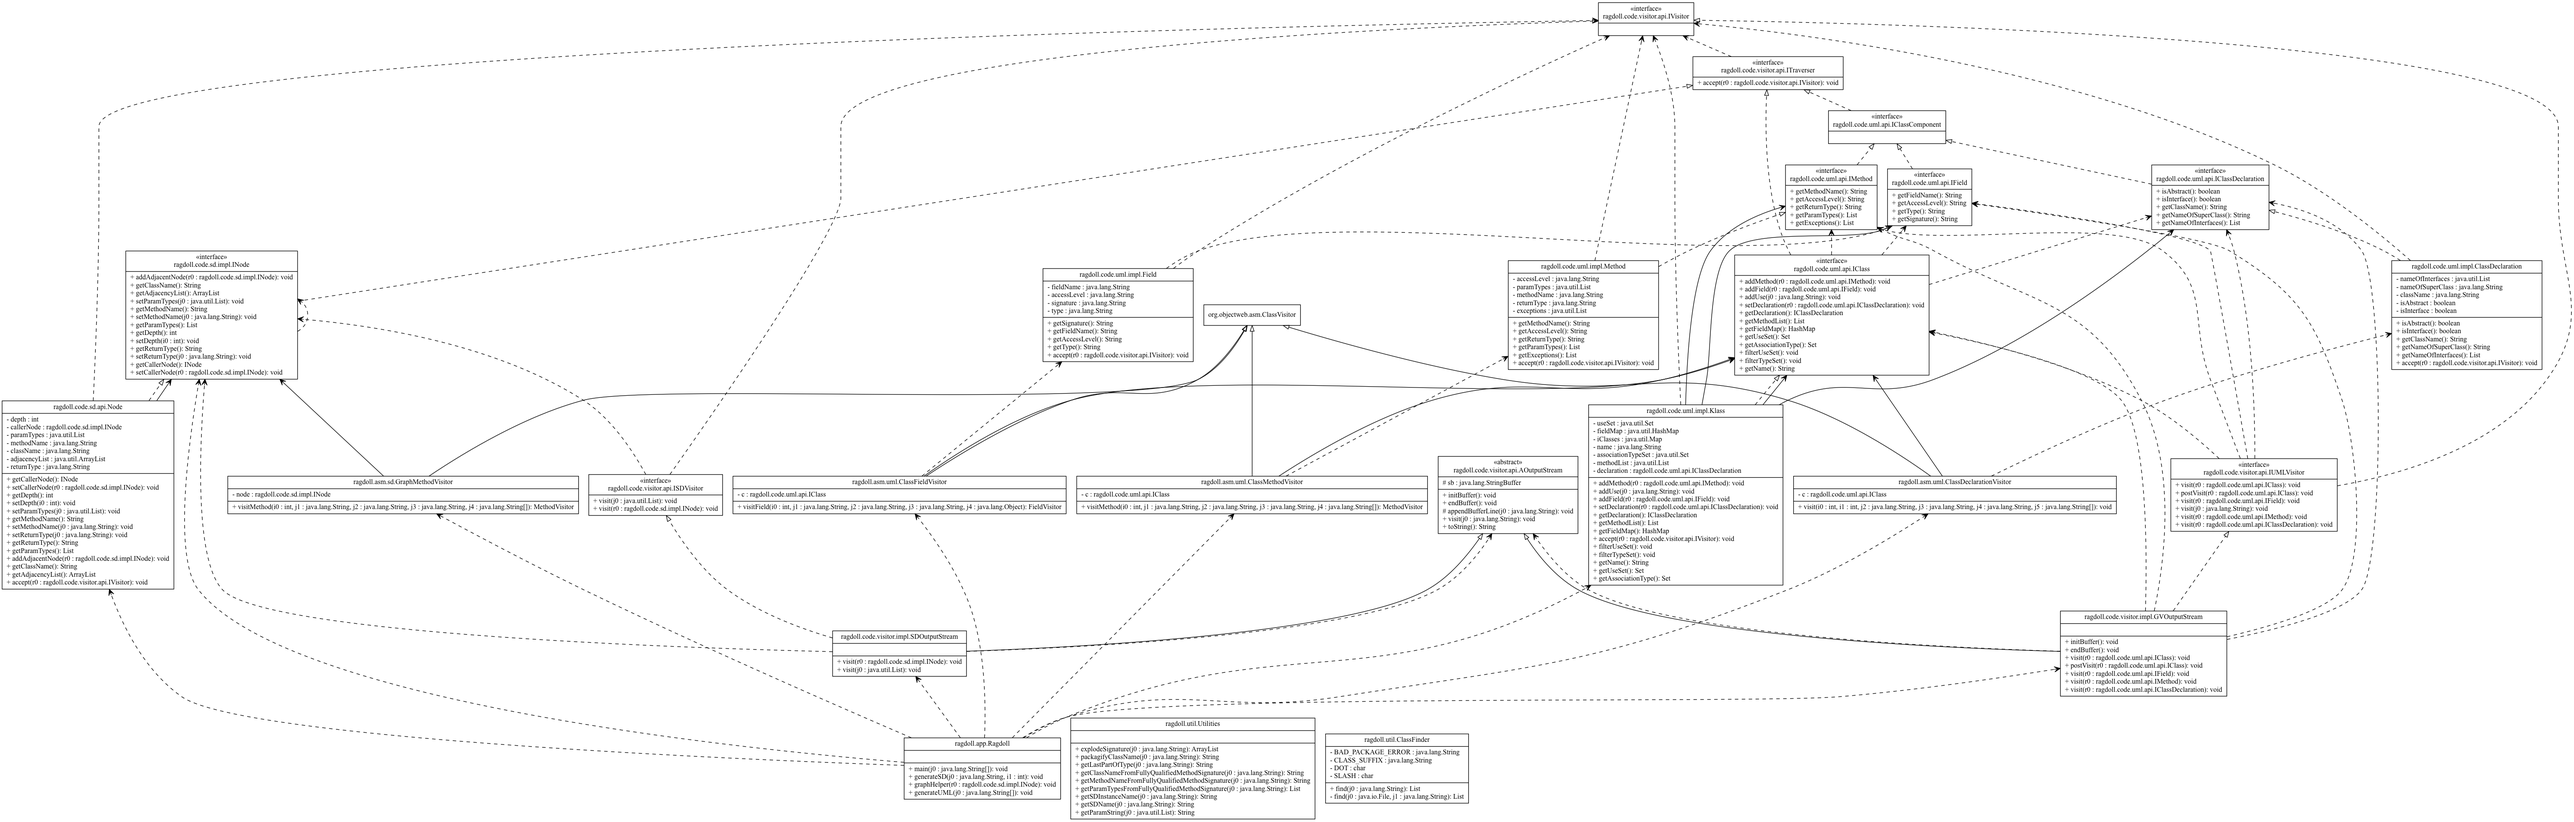
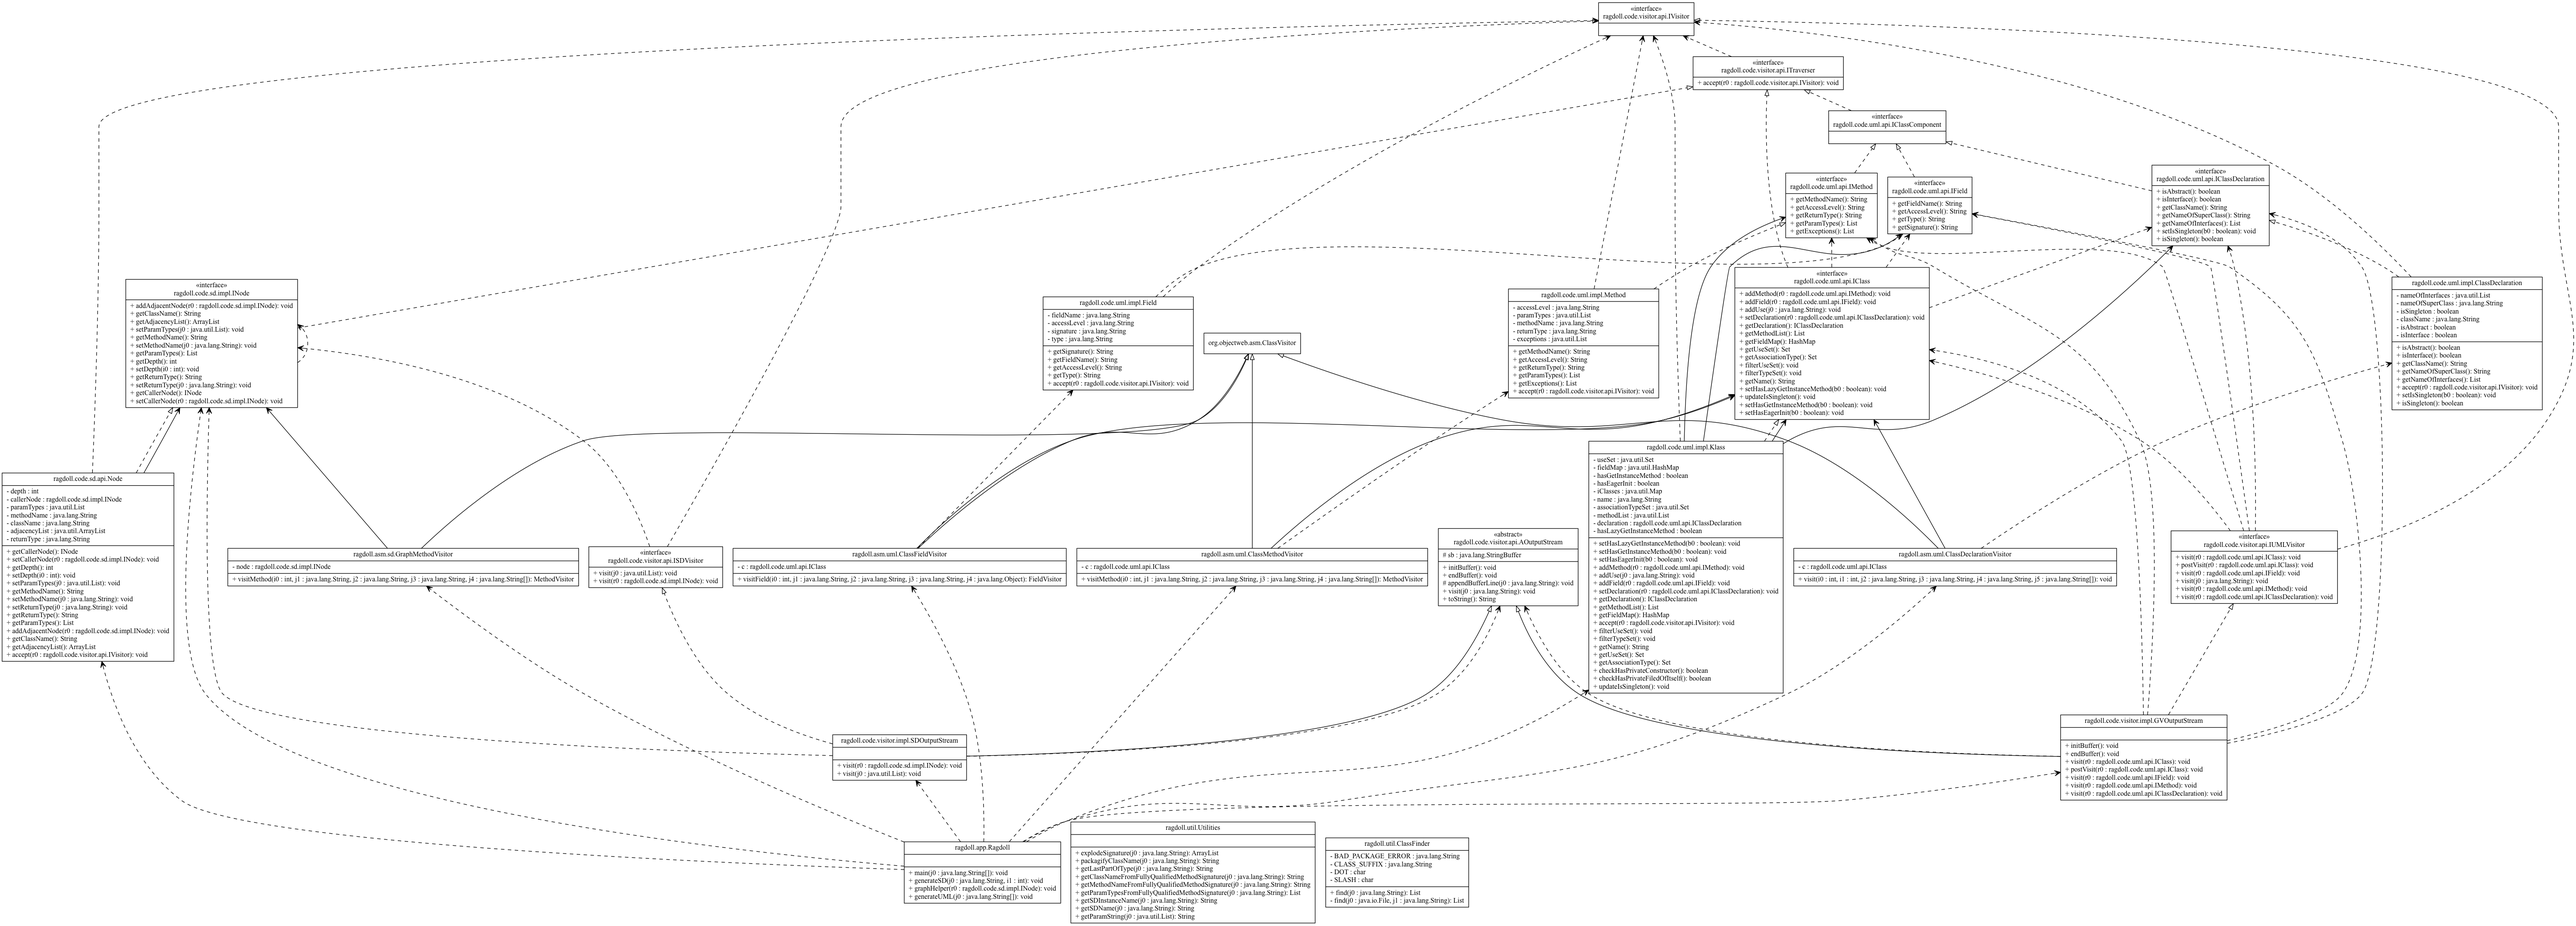
[yangh1] Updated project UML diagram.

diff --git a/src/ragdoll/app/Ragdoll.java b/src/ragdoll/app/Ragdoll.java
@@ -111,10 +111,10 @@ public class Ragdoll {
 		Map<String, IClass> iClasses = new HashMap<>();
 
 		for (String className : classNames) {
-//			if (className.contains(".test.") || className.endsWith("Test") || className.endsWith("Tests")
-//					|| className.contains("$")) {
-//				continue;
-//			}
+			if (className.contains(".test.") || className.endsWith("Test") || className.endsWith("Tests")
+					|| className.contains("$")) {
+				continue;
+			}
 			IClass newClass = new Klass(className, iClasses);
 			ClassReader reader = new ClassReader(className);
 

diff --git a/README.md b/README.md
@@ -42,7 +42,8 @@ In Milestone 3, we recognized the need to properly extend our project's structur
  * ragdoll.code.visitor.impl.AOutputStream
  * Some test cases
 * For some data structure, such as `ragdoll.code.uml.api.IMethod`, we firstly tended to reuse it in SD tool. However, it added a level of confusion in implementing `Method` class because it doesn't make sense to let a UML drawing tool to have getter and setter to deal with method's depth. It also doesn't make sense to let a SD drawing tool to keep track of method's access level and exceptions, because as long as the code compiles, we will just traverse the compiled code and form the [Call Graph](https://en.wikipedia.org/wiki/Call_graph).  
-Therefore, we kept a low level of coupling between these two drawing tools. These are indicated by their own package names.  
+Therefore, we kept a low level of coupling between these two drawing tools. These are indicated by their own package names.
+
 #### Milestone 4
 In Milestone 4, we added some methods in IClass and IClassDeclaration to support detection for Singleton Pattern. We find that our design allows us to make modifications without changing the structure of the design.
 
@@ -118,6 +119,8 @@ The project follows the following design principles:
 | yangh1         | Added condition checks for singleton.                                                                                 | 10m    |
 | Sasha          | Moved isSingleton logic to ClassDelaration and added visit logic to GVOutputStream                                    | 15m    |
 | zxqdx          | Added support for eager singleton & changed border color to blue.                                                     | 15m    |
+| yangh1         | Updated project UML diagram.                                                                                          | 10m    |
+| Sasha          | Added tests for singleton cases.                                                                                      | 15m    |
 | zxqdx          | Added contents for evolution of design principle.                                                                     | 10m    |
 
 ## Usage / Instructions
@@ -207,10 +210,10 @@ This will generate a png image file `test.png` (the SD diagram) in your `demo/` 
 ![UML Diagram](/img/Lab1-3UMLGenerated.png "")
 
 ### Project
-#### Manually created UML diagram V3
+#### Manually created UML diagram V4
 ![UML Diagram](/img/ProjectUMLManually.png "")
 
-#### Generated UML diagram V3
+#### Generated UML diagram V4
 ![UML Diagram](/img/ProjectUMLGenerated.png "")
 
 #### Manually created SD diagram V1
